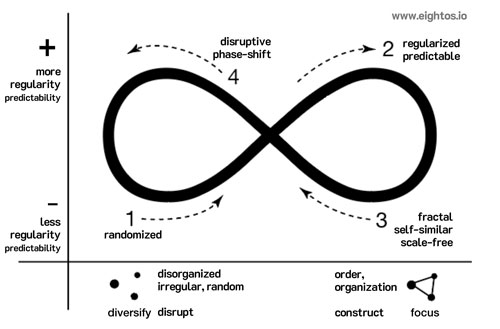
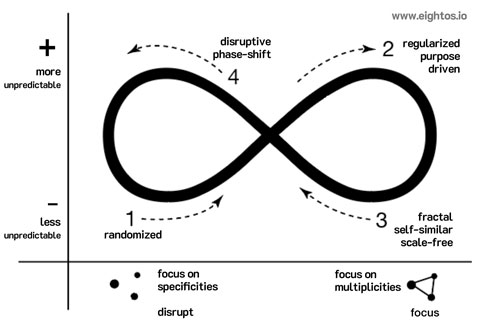
Changed presentation

diff --git a/communication.js b/communication.js
@@ -357,7 +357,7 @@ function setEventHandlerFunctions()
         if (alpha_type == 'random') {
             alpha_info = 'random irregularity'
          }
-         else if (alpha_type == 'organized') {
+         else if (alpha_type == 'regular') {
             alpha_info = 'organized regularity'
          }
          else if (alpha_type == 'fractal') {
@@ -418,9 +418,9 @@ function setEventHandlerFunctions()
             let last_alpha_recommendation = ''
 
             if (cumulative_alpha_type == 'random') {
-                last_alpha_recommendation = 'random irregularity'
+                last_alpha_recommendation = 'random repetitiveness'
              }
-             else if (cumulative_alpha_type == 'organized') {
+             else if (cumulative_alpha_type == 'regular') {
                 last_alpha_recommendation = 'organized regularity'
              }
              else if (cumulative_alpha_type == 'fractal') {
@@ -454,10 +454,10 @@ function setEventHandlerFunctions()
                 let average_alpha_type = getAlphaType(parseFloat(avCumAlpha).toFixed(2))
 
                 if (average_alpha_type == 'random') {
-                    cum_alpha_recommendation = 'make it more organized or change pattern'
+                    cum_alpha_recommendation = 'make it more regular or change pattern'
                     cum_alpha_description = 'random irregularity'
                  }
-                 else if (average_alpha_type == 'organized') {
+                 else if (average_alpha_type == 'regular') {
                     cum_alpha_recommendation = 'introduce more variability or randomness'
                     cum_alpha_description = 'organized regularity'
                  }
@@ -497,12 +497,12 @@ function setEventHandlerFunctions()
                 let cum_score_recommendation = ''
                 
                 if (counts_alpha['random'] == 3) {
-                    cum_score_description = 'all random'
-                    cum_score_recommendation = 'make it more organized or change pattern'
+                    cum_score_description = 'all repetitive'
+                    cum_score_recommendation = 'make it more regular or change pattern'
                     
                  }
-                 else if (counts_alpha['organized'] == 3) {
-                    cum_score_description = 'all organized'
+                 else if (counts_alpha['regular'] == 3) {
+                    cum_score_description = 'all regular'
                     cum_score_recommendation = 'introduce more variability or repetitiveness'
                  }
                  else if (counts_alpha['fractal'] == 3) {
@@ -521,12 +521,12 @@ function setEventHandlerFunctions()
                     cum_score_description = 'leaving random'
                     cum_score_recommendation = 'return to repetitive or introduce variability'
                 }
-                else if (last_two == 'organized') {
-                    cum_score_description = 'becoming organized'
+                else if (last_two == 'regular') {
+                    cum_score_description = 'becoming regular'
                     cum_score_recommendation = 'keep doing a regular action'  
                 }
-                else if (first_two == 'organized') {
-                    cum_score_description = 'leaving organized'
+                else if (first_two == 'regular') {
+                    cum_score_description = 'leaving regular'
                     cum_score_recommendation = 'keep doing what you are doing'  
                 }
                 else if (last_two == 'fractal') {
@@ -549,8 +549,8 @@ function setEventHandlerFunctions()
                     cum_score_description = 'unstable random'
                     cum_score_recommendation = 'keep doing repetitive, regularize, or change pattern'  
                 }
-                else if (counts_alpha['organized'] == 2 && last_two != 'organized' && first_two != 'organized') {
-                    cum_score_description = 'unstable organized'
+                else if (counts_alpha['regular'] == 2 && last_two != 'regular' && first_two != 'regular') {
+                    cum_score_description = 'unstable regular'
                     cum_score_recommendation = 'introduce variability or highly repetitive action'  
                 }
                 else if (counts_alpha['fractal'] == 2 && last_two != 'fractal' && first_two != 'fractal') {
@@ -572,10 +572,10 @@ function setEventHandlerFunctions()
                 parseFloat(avCumAlpha).toFixed(2) + ', ' + 
                 average_alpha_type + ' on average, ' + 
                 cum_alpha_description + '<br>' + 
-                'based on the last averages: ' + cum_alpha_recommendation + '<br><br>' + 
+                'based on the last averages: ' + cum_alpha_recommendation + '<br><br><br>' + 
                 'the last ' + recommenderIterations + ' states have been:<br>' + 
-                cum_alpha_score + ' | ' + cum_score_description + '<br><br>' + 
-                'eightos recommendation: ' + cum_score_recommendation;
+                cum_alpha_score + ' | ' + cum_score_description + '<br><br><br>' + 
+                'eightos recommendation:<br><h4>' + cum_score_recommendation + '</h4>';
 
             }
 
@@ -1214,7 +1214,7 @@ function getAlphaType(alpha) {
        return 'random'
     }
     else if (alpha > 0.60 && alpha < 0.90) {
-       return 'organized'
+       return 'regular'
     }
     else if (alpha >= 0.90 && alpha <= 1.10) {
        return 'fractal'

diff --git a/index.html b/index.html
@@ -160,7 +160,7 @@
         <br><br>
         There can be 4 states: random, organized, fractal, complex. We assume that it can be interesting to go through each of these states while staying in every one of them for a long enough time. 
         <br><br>
-        Based on that data we will see what the current state it and what is has been. If it's been too organized for a long time, we will recommend to bring in some fractal variability. If it has been too fractal, we'll recommend to make it a bit more organized or random. If it has been too organized, we'll propose to disrupt it again. 
+        Based on that data we will see what the current state is and what is has been. If it's been too regular for a long time, we will recommend to bring in some fractal variability or repetitiveness. If it has been too fractal, we'll recommend to make it a bit more regular, repetitive, or introduce a phase-shift. If it has been too regular, we'll propose to disrupt it again. 
         <br><br>
         We follow this EightOS variability schema:<br><br>
         <img src="eightos-schema.jpg">
